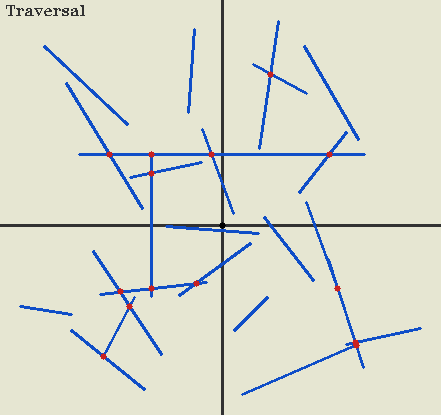
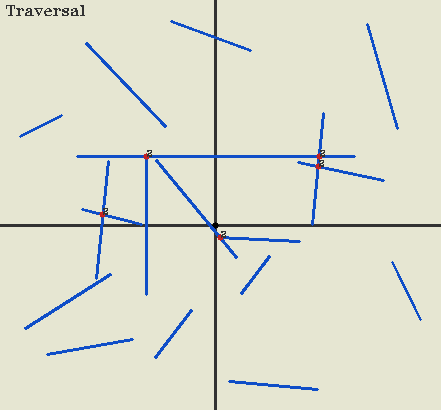
traverse update

diff --git a/main.cpp b/main.cpp
@@ -186,34 +186,62 @@ GeoChain::Algorithms::PlaneSweeper line_intersection_sweepline(std::vector<GeoCh
 	return plane_sweeper;
 }
 
-std::vector<GeoChain::Euclidean::Point> line_intersection_traversal(std::vector<GeoChain::Euclidean::Segment> *ptr_segs,
-																																		int repeat_num) {
+std::vector<GeoChain::Algorithms::PointSegmentAffiliation> line_intersection_traversal(
+		std::vector<GeoChain::Euclidean::Segment> *ptr_segs, int repeat_num,
+		std::vector<GeoChain::Euclidean::Point> *intersections) {
 	using namespace GeoChain;
 	using namespace Euclidean;
+	using namespace Algorithms;
+
 	Utils::ExperimentalTimer t_(repeat_num);
 	for (int r = 1; r < repeat_num; r++) {
-		std::vector<Point> intersection;
-		for (int i_ = 0; i_ < (*ptr_segs).size() - 1; i_++) {
-			for (int j_ = i_ + 1; j_ < (*ptr_segs).size(); j_++) {
-				Point intersection_ = SegmentIntersection(&((*ptr_segs)[i_]), &((*ptr_segs)[j_]));
-				if (intersection_.status_ == MATR) {
-					intersection.push_back(intersection_);
-					// LOG(INFO) << "find one intersection: (" << intersection_.x_ << "," << intersection_.y_ << ")";
-				}
-			}
-		}
 	}
-	std::vector<Point> intersection;
+
+	std::vector<PointSegmentAffiliation> inter_info;
+	std::vector<Node<Segment>> node_segs;
+	for (auto &&s_ : (*ptr_segs)) {
+		Node<Segment> seg_node_(&s_);
+		node_segs.push_back(seg_node_);
+	}
 	for (int i_ = 0; i_ < (*ptr_segs).size() - 1; i_++) {
+		std::vector<PointSegmentAffiliation> inter_info_tmp;
+		inter_info_tmp.reserve((*ptr_segs).size());
 		for (int j_ = i_ + 1; j_ < (*ptr_segs).size(); j_++) {
 			Point intersection_ = SegmentIntersection(&((*ptr_segs)[i_]), &((*ptr_segs)[j_]));
 			if (intersection_.status_ == MATR) {
-				intersection.push_back(intersection_);
-				// LOG(INFO) << "find one intersection: (" << intersection_.x_ << "," << intersection_.y_ << ")";
+				int match_index_ = -1;
+				for (int inter_ = 0; inter_ < inter_info_tmp.size(); inter_++) {
+					if (PointCoordSequence(inter_info_tmp[inter_].point_, &intersection_, g_GlobalVars.convention_epsilon) !=
+							EQN) {
+						// not match
+					} else {
+						// match
+						match_index_ = inter_;
+						break;
+					}
+				}
+				if (match_index_ > 0) {
+					// match
+					inter_info_tmp[match_index_].segments_.push_back(&(node_segs[j_]));
+					inter_info_tmp[match_index_].num_ += 1;
+					// LOG(INFO) << "find one existing intersection: (" << intersection_.x_ << "," << intersection_.y_ << ")";
+				} else {
+					// new one
+					intersections->push_back(intersection_);
+					PointSegmentAffiliation info_tmp(EUC2D, (*ptr_segs).size());
+					intersections->push_back(intersection_);
+					info_tmp.point_ = &(intersections->back());
+					info_tmp.segments_.push_back(&(node_segs[j_]));
+					info_tmp.segments_.push_back(&(node_segs[i_]));
+					info_tmp.num_ += 2;
+					inter_info_tmp.push_back(info_tmp);
+					// LOG(INFO) << "find one new intersection: (" << intersection_.x_ << "," << intersection_.y_ << ")";
+				}
 			}
 		}
+		inter_info.insert(inter_info.end(), inter_info_tmp.begin(), inter_info_tmp.end());
 	}
-	return intersection;
+	return inter_info;
 }
 
 void sweepline_test(float range, float expand, int repeat_experiments) {
@@ -274,9 +302,9 @@ void sweepline_test(float range, float expand, int repeat_experiments) {
 	int counter = 0;
 	for (auto &&e_ : plane_sweeper.events_list_) {
 		// LOG(INFO) << e_.num_ << ": " << e_.u_num_ << " " << e_.m_num_ << " " << e_.l_num_;
-		if (e_.m_num_ > 0) {
+		if (e_.num_ >= 2) {
 			counter++;
-			visual.Draw(*(e_.point_));
+			visual.Draw(*(e_.point_), std::to_string(e_.num_));
 		}
 	}
 	LOG(INFO) << "[#] sweepline intersections find: " << counter;
@@ -299,14 +327,17 @@ void sweepline_test(float range, float expand, int repeat_experiments) {
 	// }
 	// LOG(INFO) << "finish sweeping event: " << ++counter;
 
-	std::vector<Point> intersection = line_intersection_traversal(&segments, repeat_experiments);
+	std::vector<Point> intersections;
+	intersections.reserve((segments.size() * segments.size() - segments.size()) / 2);
+	std::vector<PointSegmentAffiliation> intersection =
+			line_intersection_traversal(&segments, repeat_experiments, &intersections);
 	for (auto &&inter_ : intersection) {
-		visual_traverse.Draw(inter_);
+		visual_traverse.Draw(*(inter_.point_), std::to_string(inter_.num_));
 	}
 
 	LOG(INFO) << "[#] traversal intersections find: " << intersection.size();
 	LOG(INFO) << std::setprecision(g_GlobalVars.visualize_precision)
-						<< "[%] intersections/segments: " << float(counter) / segments.size() * 100 << "%";
+						<< "[%] intersections/segments: " << float(intersection.size()) / segments.size() * 100 << "%";
 	visual_traverse.Visualize("Traversal", "Topics/Line Segment Intersection/Traversal.png");
 
 	cv::destroyAllWindows();

diff --git a/Utils/ConfigLoader.h b/Utils/ConfigLoader.h
@@ -143,6 +143,10 @@ void LoadingConfig(const Json::Value &root_config) {
 									 g_GlobalVars.visualize_font_scale);
 	LoadStringLikeKV(root_config, g_GlobalKeys.visualize_key, g_GlobalKeys.key_font_thickness,
 									 g_GlobalVars.visualize_font_thickness);
+	LoadStringLikeKV(root_config, g_GlobalKeys.visualize_key, g_GlobalKeys.key_label_scale,
+									 g_GlobalVars.visualize_label_scale);
+	LoadStringLikeKV(root_config, g_GlobalKeys.visualize_key, g_GlobalKeys.key_label_thickness,
+									 g_GlobalVars.visualize_label_thickness);
 	LoadStringLikeKV(root_config, g_GlobalKeys.visualize_key, g_GlobalKeys.key_window_width,
 									 g_GlobalVars.visualize_window_width);
 	LoadStringLikeKV(root_config, g_GlobalKeys.visualize_key, g_GlobalKeys.key_window_height,
@@ -173,6 +177,8 @@ void DefineGlobalKeys() {
 	g_GlobalKeys.key_point_size = "POINTSIZE";
 	g_GlobalKeys.key_font_scale = "FONTSCALE";
 	g_GlobalKeys.key_font_thickness = "FONTTHICKNESS";
+	g_GlobalKeys.key_label_scale = "LABELSCALE";
+	g_GlobalKeys.key_label_thickness = "LABELTHICKNESS";
 	g_GlobalKeys.key_window_height = "WINDOWHEIGHT";
 	g_GlobalKeys.key_window_width = "WINDOWWIDTH";
 

diff --git a/Visualizers/Visualizer2D.h b/Visualizers/Visualizer2D.h
@@ -127,10 +127,17 @@ class Visualizer2D {
 		cv::circle(this->canvas_, origin_, g_GlobalVars.visualize_point_size, COLOR_BLACK, -1);
 	};
 
-	void Draw(Point pt) {
+	void Draw(Point pt, std::string label = "") {
 		cv::Point2f this_point_ = {pt.x_, pt.y_};
 		cv::Point2f pt_pixel_ = this_point_ * this->scaling_ + this->shift_;
 		cv::circle(this->canvas_, pt_pixel_, g_GlobalVars.visualize_point_size, COLOR_RED, -1);
+		if (label != "") {
+			cv::flip(this->canvas_, this->canvas_, 0);
+			pt_pixel_.y = this->canvas_.rows - 1 - pt_pixel_.y;
+			cv::putText(this->canvas_, label, pt_pixel_, CV_FONT_HERSHEY_TRIPLEX, g_GlobalVars.visualize_label_scale,
+									COLOR_NOTATION, g_GlobalVars.visualize_label_thickness);
+			cv::flip(this->canvas_, this->canvas_, 0);
+		}
 	};
 
 	void Draw(Line line) {

diff --git a/Utils/Global.h b/Utils/Global.h
@@ -23,6 +23,8 @@ struct GlobalVar {
 	int visualize_point_size;
 	float visualize_font_scale;
 	int visualize_font_thickness;
+	float visualize_label_scale;
+	int visualize_label_thickness;
 	int visualize_window_width;
 	int visualize_window_height;
 
@@ -50,6 +52,8 @@ struct GlobalKey {
 	std::string key_point_size;
 	std::string key_font_scale;
 	std::string key_font_thickness;
+	std::string key_label_scale;
+	std::string key_label_thickness;
 	std::string key_window_width;
 	std::string key_window_height;
 
